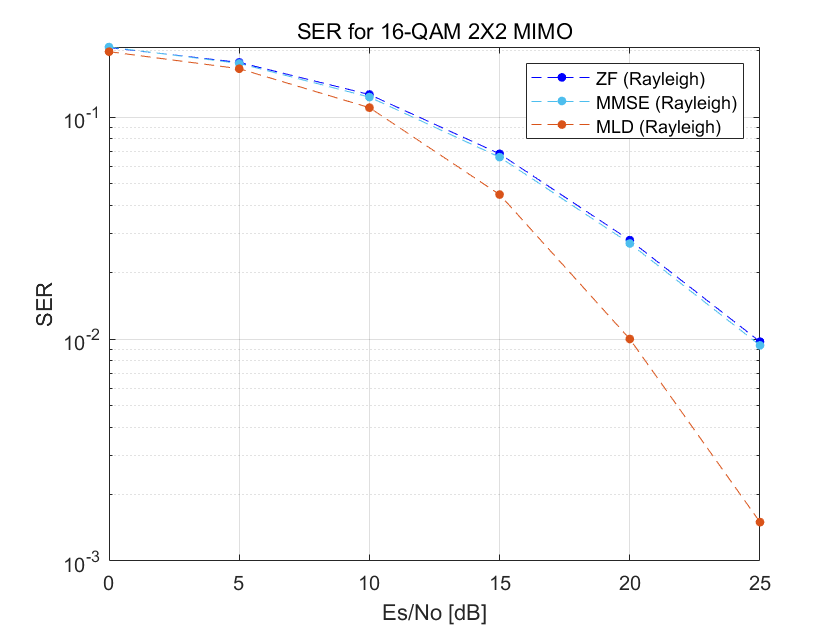
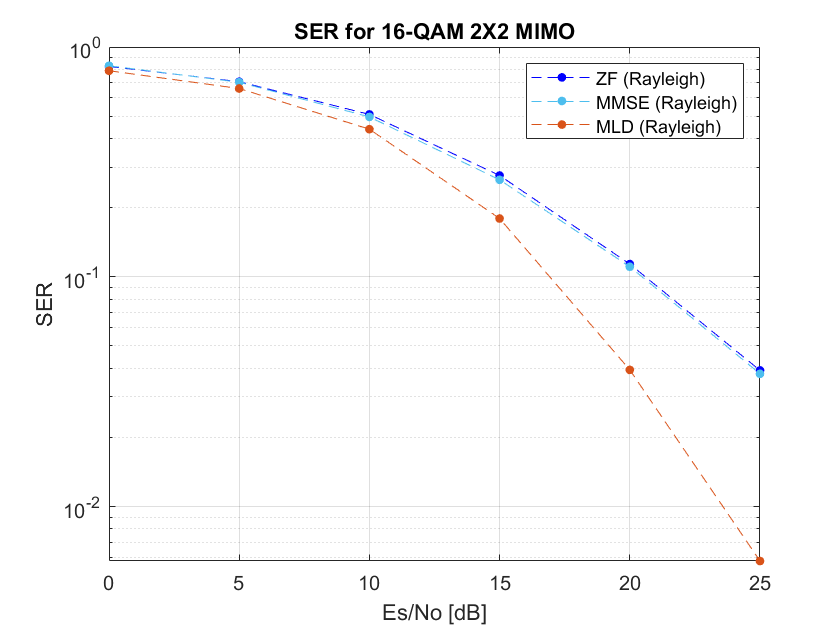
functionized and renewed image

diff --git a/MIMO_Rayleigh/main.m b/MIMO_Rayleigh/main.m
@@ -1,52 +1,42 @@
 close all
-clear
+clear all
 clc
 
-Es = 1;
-
 % Environment Varible
-M = 4
-Nt = 3
-Nr = 3
+M = 16
+Nt = 4
+Nr = 4
 NumberIteration = 10^4;
-NumberOfSignals = 1;
 
 % Simulation
-% TODO: LengthBitSequence and Nt, Nr independent하게 구성
 LengthBitSequence = Nt * log2(M); % log2(M) bits per signal
+LengthSignalSequence = Nt;
+
+% EbN0_dB = 0:5:25;
+% EbN0 = db2pow(EbN0_dB);
+% 
+% EsN0 = EbN0 * log2(M);
+% EsN0_db = pow2db(EsN0);
+
+EsN0_dB = 0:5:25;
+EsN0 = db2pow(EsN0_dB);
+
+EbN0 = EsN0 / log2(M);
+EbN0_dB = pow2db(EbN0);
+
+BitErrorCount_ZF = zeros(1, length(EsN0_dB));
+SignalErrorCount_ZF = zeros(1, length(EsN0_dB));
+BitErrorCount_MLD = zeros(1, length(EsN0_dB));
+SignalErrorCount_MLD = zeros(1, length(EsN0_dB));
+
+BitErrorCount_MMSE = zeros(1, length(EsN0_dB));
+SignalErrorCount_MMSE = zeros(1, length(EsN0_dB));
+
 NormalizationFactor = sqrt(2/3*(M-1)*Nt);
-
-EbN0_dB = 0:5:25;
-EbN0 = db2pow(EbN0_dB);
-
-EsN0 = EbN0 * log2(M);
-EsN0_db = pow2db(EsN0);
-
-BitErrorCount_ZF = zeros(1, length(EsN0_db));
-SignalErrorCount_ZF = zeros(1, length(EsN0_db));
-
-BitErrorCount_MLD = zeros(1, length(EsN0_db));
-SignalErrorCount_MLD = zeros(1, length(EsN0_db));
-
-BitErrorCount_MMSE = zeros(1, length(EsN0_db));
-SignalErrorCount_MMSE = zeros(1, length(EsN0_db));
-
-
-AllNumbers = de2bi([0:M^Nt-1], Nt*log2(M), 'left-msb');
-Candidates = zeros(M^Nt, Nt);
-for ii = 1 : M^Nt
-    for jj = 1 : Nt
-        Candidates(ii,jj) = bi2de(AllNumbers(ii,log2(M)*(jj-1)+1:log2(M)*jj), 'left-msb');
-    end
-end
-Candidates = qammod(Candidates',M) / NormalizationFactor;
-
-alphabet = qammod([0:M-1], M) / NormalizationFactor;
-AvgPowerPerAntenna = mean(abs(alphabet) .^ 2)
 
 FivePercent = ceil(NumberIteration/20);
 for iTotal = 1 : NumberIteration
-    if mod(iTotal-1, FivePercent)==0
+    if mod(iTotal-100, FivePercent)==0
         tic
     end
     % Bit Generation
@@ -61,70 +51,57 @@ for iTotal = 1 : NumberIteration
         ReceivedSymbolSequence = H * SymbolSequence + NoiseSequence * sqrt(1 / EsN0(indx_EbN0)); % log2(M)x1 matrix
         
         % MLD Receiver
-        EuclideanDistance = abs(ReceivedSymbolSequence * ones(1,M^Nt) - H*Candidates).^2; % results in Nt x M^Nt, each column representing each candidate symbol combination
-        [val, idx] = min(sum(EuclideanDistance, 1));
-        DetectedBinary_MLD = reshape(de2bi(idx-1, log2(M)*Nt, 'left-msb'),log2(M),[])'; % MOST LIKELY WRONG
-        DetectedSequence_MLD = bi2de(DetectedBinary_MLD, 'left-msb');
-        
-        BitErrorCount_MLD(indx_EbN0) = BitErrorCount_MLD(indx_EbN0) + sum(SignalBinary~=DetectedBinary_MLD, 'all');
-        SignalErrorCount_MLD(indx_EbN0) = SignalErrorCount_MLD(indx_EbN0) + sum(SignalSequence~=DetectedSequence_MLD, 'all');
+        [BitErrorCount_tmp, SignalErrorCount_tmp] = simulate_mld(ReceivedSymbolSequence, SignalSequence, SignalBinary,  M, H);
+        BitErrorCount_MLD(indx_EbN0) = BitErrorCount_MLD(indx_EbN0) + BitErrorCount_tmp;
+        SignalErrorCount_MLD(indx_EbN0) = SignalErrorCount_MLD(indx_EbN0) + SignalErrorCount_tmp;
         
         % ZF Receiver
-        w_zf = pinv(H); % pinv(H) = inv(H' * H) * H'
-        DetectedSymbolSequence_ZF = w_zf * ReceivedSymbolSequence; % Detection (Zero-Forcing: y / h)
-        
-        DetectedSignalSequence_ZF = qamdemod(DetectedSymbolSequence_ZF*NormalizationFactor, M); % Detection
-        DetectedBinary_ZF = de2bi(DetectedSignalSequence_ZF, log2(M), 'left-msb');
-        
-        BitErrorCount_ZF(indx_EbN0) = BitErrorCount_ZF(indx_EbN0) + sum(SignalBinary~=DetectedBinary_ZF, 'all');
-        SignalErrorCount_ZF(indx_EbN0) = SignalErrorCount_ZF(indx_EbN0) + sum(SignalSequence~=DetectedSignalSequence_ZF, 'all');
+        [BitErrorCount_tmp, SignalErrorCount_tmp] = simulate_zf(ReceivedSymbolSequence, SignalSequence, SignalBinary, M, H);
+        BitErrorCount_ZF(indx_EbN0) = BitErrorCount_ZF(indx_EbN0) + BitErrorCount_tmp;
+        SignalErrorCount_ZF(indx_EbN0) = SignalErrorCount_ZF(indx_EbN0) + SignalErrorCount_tmp;
         
         % MMSE Receiver
-        w_mmse = inv(H' * H + Nt / EsN0(indx_EbN0) * eye(Nr)) * H';
-        DetectedSymbolSequence_MMSE = w_mmse * ReceivedSymbolSequence; % Detection (Zero-Forcing: y / h)
-        
-        DetectedSignalSequence_MMSE = qamdemod(DetectedSymbolSequence_MMSE*NormalizationFactor, M); % Detection
-        DetectedBinary_ZF = de2bi(DetectedSignalSequence_MMSE, log2(M), 'left-msb');
-        
-        BitErrorCount_MMSE(indx_EbN0) = BitErrorCount_MMSE(indx_EbN0) + sum(SignalBinary~=DetectedBinary_ZF, 'all');
-        SignalErrorCount_MMSE(indx_EbN0) = SignalErrorCount_MMSE(indx_EbN0) + sum(SignalSequence~=DetectedSignalSequence_MMSE, 'all');
+        [BitErrorCount_tmp, SignalErrorCount_tmp] = simulate_mmse(ReceivedSymbolSequence, SignalSequence, SignalBinary, M, H, EsN0(indx_EbN0));
+        BitErrorCount_MMSE(indx_EbN0) = BitErrorCount_MMSE(indx_EbN0) + BitErrorCount_tmp;
+        SignalErrorCount_MMSE(indx_EbN0) = SignalErrorCount_MMSE(indx_EbN0) + SignalErrorCount_tmp;
     end
-    if mod(iTotal-1, FivePercent)==0
+    if mod(iTotal-100, FivePercent)==0
         ElapsedTime = toc;
         EstimatedTime = (NumberIteration-iTotal)*ElapsedTime;
         disp(sprintf("%d%%, estimated wait time %d minutes %d seconds", round(iTotal/NumberIteration*100), floor(EstimatedTime/60), round(mod(EstimatedTime, 60))))
     end
 end
 
-SER_MLD = SignalErrorCount_MLD / (LengthBitSequence * NumberIteration);
+% Error Count to Ratio
+SER_MLD = SignalErrorCount_MLD / (LengthSignalSequence * NumberIteration);
 BER_MLD = BitErrorCount_MLD / (LengthBitSequence * NumberIteration);
 
-SER_ZF = SignalErrorCount_ZF / (LengthBitSequence * NumberIteration);
+SER_ZF = SignalErrorCount_ZF / (LengthSignalSequence * NumberIteration);
 BER_ZF = BitErrorCount_ZF / (LengthBitSequence * NumberIteration);
 
-SER_MMSE = SignalErrorCount_MMSE / (LengthBitSequence * NumberIteration);
+SER_MMSE = SignalErrorCount_MMSE / (LengthSignalSequence * NumberIteration);
 BER_MMSE = BitErrorCount_MMSE / (LengthBitSequence * NumberIteration);
 
 % Plot
 figure()
 
-semilogy(EbN0_dB, BER_ZF, 'b.--', 'MarkerSize', 15);
+semilogy(EsN0_dB, BER_ZF, 'b.--', 'MarkerSize', 15);
 hold on
-semilogy(EbN0_dB, BER_MMSE, '.--', 'Color', "#4DBEEE", 'MarkerSize', 15);
-semilogy(EbN0_dB, BER_MLD, '.--','Color', '#D95319', 'MarkerSize', 15);
+semilogy(EsN0_dB, BER_MMSE, '.--', 'Color', "#4DBEEE", 'MarkerSize', 15);
+semilogy(EsN0_dB, BER_MLD, '.--','Color', '#D95319', 'MarkerSize', 15);
 ylabel('BER');
 title(sprintf("BER for %d-QAM %dX%d MIMO", M, Nr, Nt));
 grid on
 legend('ZF (Rayleigh)', 'MMSE (Rayleigh)', 'MLD (Rayleigh)');
-xlabel('Eb/No [dB]');
+xlabel('Es/No [dB]');
 
 figure()
-semilogy(EbN0_dB, SER_ZF, 'b.--', 'MarkerSize', 15);
+semilogy(EsN0_dB, SER_ZF, 'b.--', 'MarkerSize', 15);
 hold on
-semilogy(EbN0_dB, SER_MMSE, '.--', 'Color', "#4DBEEE", 'MarkerSize', 15); 
-semilogy(EbN0_dB, SER_MLD, '.--', 'Color', '#D95319', 'MarkerSize', 15);
+semilogy(EsN0_dB, SER_MMSE, '.--', 'Color', "#4DBEEE", 'MarkerSize', 15); 
+semilogy(EsN0_dB, SER_MLD, '.--', 'Color', '#D95319', 'MarkerSize', 15);
 ylabel('SER');
 title(sprintf("SER for %d-QAM %dX%d MIMO", M, Nr, Nt));
 grid on
 legend('ZF (Rayleigh)', 'MMSE (Rayleigh)', 'MLD (Rayleigh)');
-xlabel('Eb/No [dB]');
+xlabel('Es/No [dB]');

diff --git a/MIMO_Rayleigh/simulate_mld.m b/MIMO_Rayleigh/simulate_mld.m
@@ -1,0 +1,29 @@
+function [BitErrorCount, SignalErrorCount] = simulate_mld(ReceivedSymbolSequence, SignalSequence, SignalBinary,  M, H)
+    Nt = size(H,1);
+    persistent Candidates
+    if isempty(Candidates)
+         Candidates = get_candidates(M, Nt);
+    end
+    NormalizationFactor = sqrt(2/3*(M-1)*Nt);
+%     size(ReceivedSymbolSequence * ones(1,M^Nt))
+%     size(H*Candidates)
+    EuclideanDistance = abs(ReceivedSymbolSequence * ones(1,M^Nt) - H*Candidates).^2; % results in Nt x M^Nt, each column representing each candidate symbol combination
+    [val, idx] = min(sum(EuclideanDistance, 1));
+    DetectedBinary_MLD = reshape(de2bi(idx-1, log2(M)*Nt, 'left-msb'),log2(M),[])';
+    DetectedSequence_MLD = bi2de(DetectedBinary_MLD, 'left-msb');
+
+    BitErrorCount = sum(SignalBinary~=DetectedBinary_MLD, 'all');
+    SignalErrorCount = sum(SignalSequence~=DetectedSequence_MLD, 'all');
+end
+
+function Candidates = get_candidates(M, Nt)
+    NormalizationFactor = sqrt(2/3*(M-1)*Nt);
+    AllNumbers = de2bi([0:M^Nt-1], Nt*log2(M), 'left-msb');
+    Candidates = zeros(M^Nt, Nt);
+    for ii = 1 : M^Nt
+        for jj = 1 : Nt
+            Candidates(ii,jj) = bi2de(AllNumbers(ii,log2(M)*(jj-1)+1:log2(M)*jj), 'left-msb');
+        end
+    end
+    Candidates = qammod(Candidates',M) / NormalizationFactor;
+end

diff --git a/MIMO_Rayleigh/simulate_zf.m b/MIMO_Rayleigh/simulate_zf.m
@@ -1,0 +1,12 @@
+function [BitErrorCount, SignalErrorCount] = simulate_zf(ReceivedSymbolSequence, SignalSequence, SignalBinary,  M, H)
+        Nt = size(H,1);
+        NormalizationFactor = sqrt(2/3*(M-1) * size(H,1)); % size(H,1) = Nt
+        w_zf = pinv(H); % pinv(H) = inv(H' * H) * H'
+        DetectedSymbolSequence_ZF = w_zf * ReceivedSymbolSequence; % Detection (Zero-Forcing: y / h)
+        
+        DetectedSignalSequence_ZF = qamdemod(DetectedSymbolSequence_ZF*NormalizationFactor, M); % Detection
+        DetectedBinary_ZF = de2bi(DetectedSignalSequence_ZF, log2(M), 'left-msb');
+        
+        BitErrorCount = sum(SignalBinary~=DetectedBinary_ZF, 'all');
+        SignalErrorCount = sum(SignalSequence~=DetectedSignalSequence_ZF, 'all');
+end

diff --git a/MIMO_Rayleigh/simulate_mmse.m b/MIMO_Rayleigh/simulate_mmse.m
@@ -1,0 +1,13 @@
+function [BitErrorCount, SignalErrorCount] = simulate_mmse(ReceivedSymbolSequence, SignalSequence, SignalBinary,  M, H, EsN0)
+    Nt = size(H,1);
+    NormalizationFactor = sqrt(2/3*(M-1) * size(H,1)); % size(H,1) = Nt
+
+    w_mmse = inv(H' * H + Nt / EsN0 * eye(Nt)) * H';
+    DetectedSymbolSequence_MMSE = w_mmse * ReceivedSymbolSequence; % Detection (Zero-Forcing: y / h)
+
+    DetectedSignalSequence_MMSE = qamdemod(DetectedSymbolSequence_MMSE*NormalizationFactor, M); % Detection
+    DetectedBinary_MMSE = de2bi(DetectedSignalSequence_MMSE, log2(M), 'left-msb');
+
+    BitErrorCount = sum(SignalBinary~=DetectedBinary_MMSE, 'all');
+    SignalErrorCount = sum(SignalSequence~=DetectedSignalSequence_MMSE, 'all');
+end

diff --git a/MIMO_Rayleigh/report/report.tex b/MIMO_Rayleigh/report/report.tex
@@ -151,7 +151,7 @@ ReceivedSymbolSequence=[y_1\ \hdots\ y_{N_R}]^T
 	\end{subfigure}\\%
 	\begin{subfigure}{0.5\textwidth}
 		\centerline{\includegraphics[width=1\textwidth]{a_Eb_BER.png}}
-		\caption{SER}
+		\caption{BER}
 	\end{subfigure}%
 	\begin{subfigure}{0.5\textwidth}
 		\centerline{\includegraphics[width=1\textwidth]{a_Eb_SER.png}}
